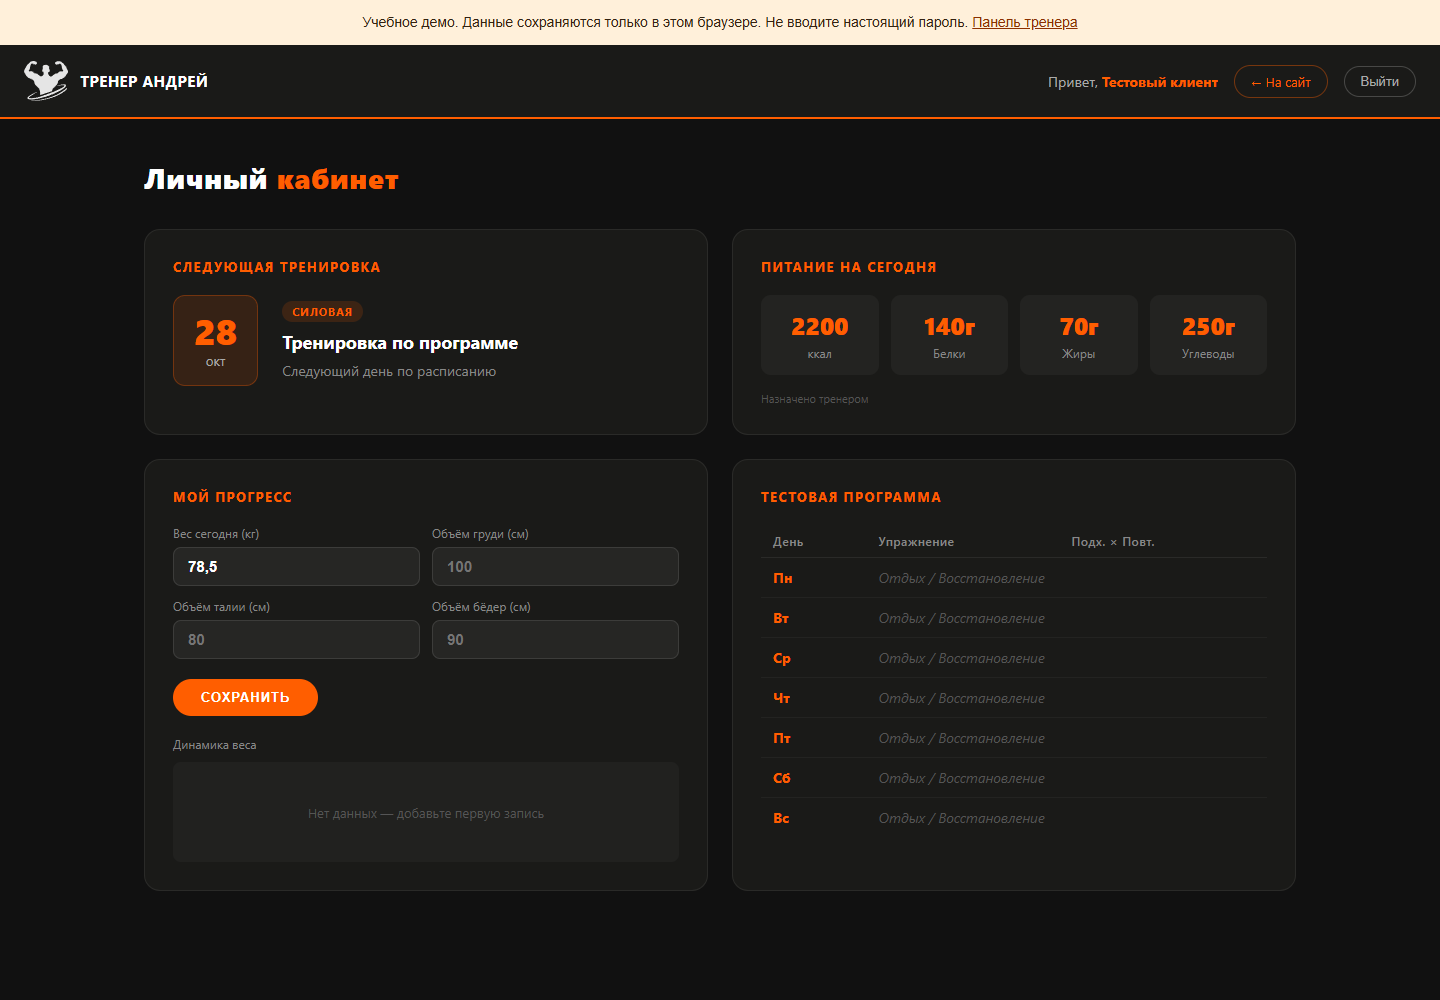
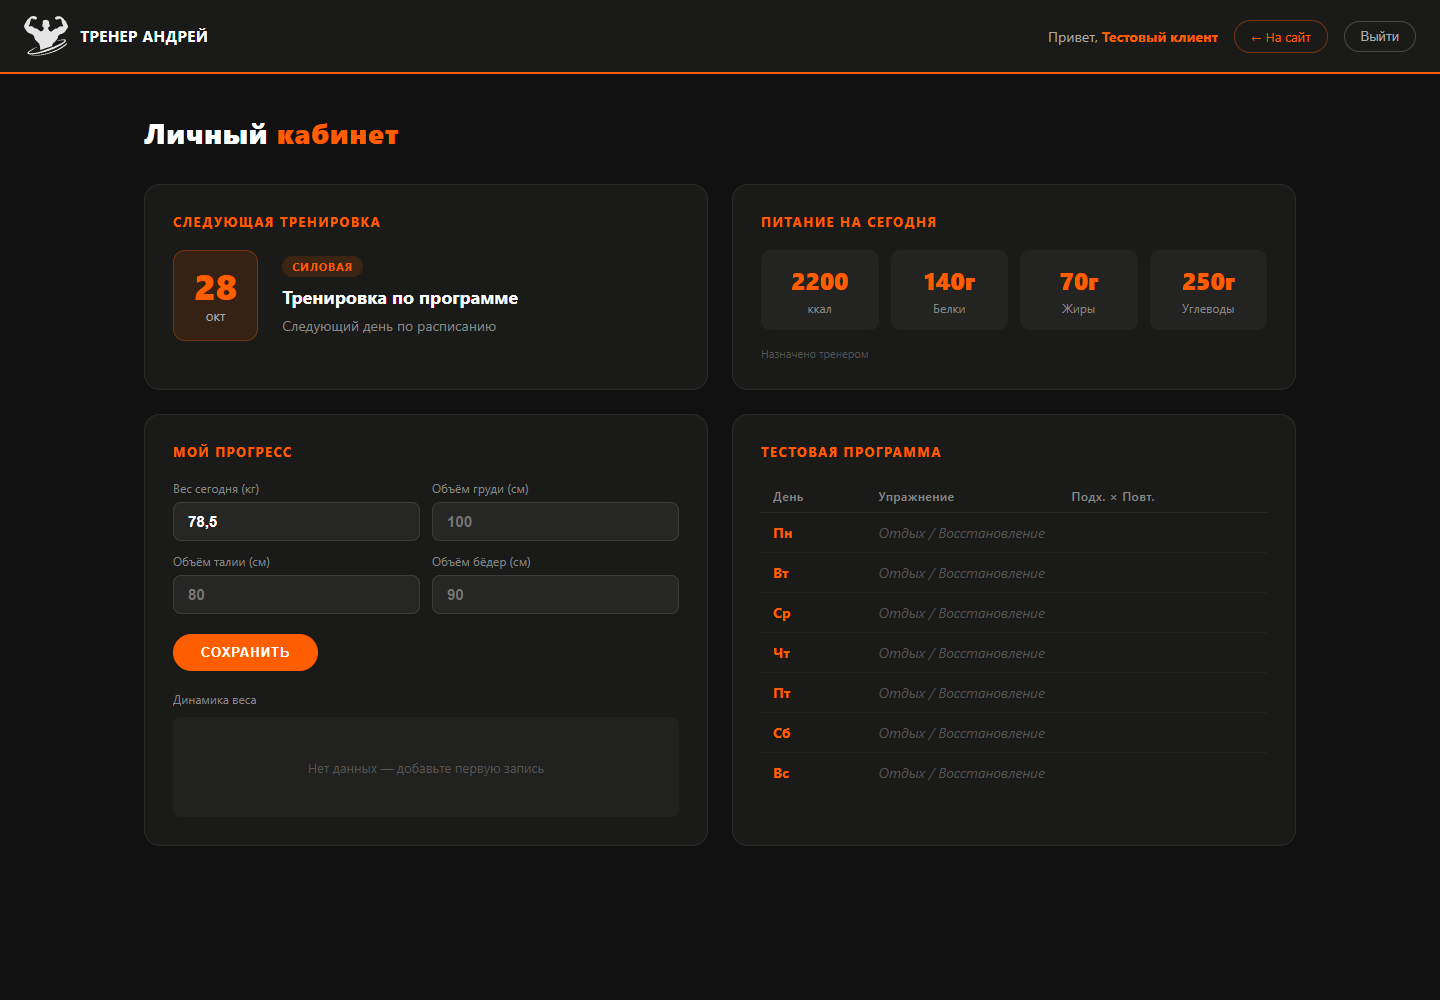
Simplify demo page layout

diff --git a/demo/login.html b/demo/login.html
@@ -5,8 +5,8 @@
   <meta name="viewport" content="width=device-width, initial-scale=1.0" />
   <title>Вход — Тренер Андрей Шарипкулов</title>
   <link rel="stylesheet" href="css/login.css">
-<meta name="robots" content="noindex"><link rel="stylesheet" href="css/demo.css"></head>
-<body><aside class="demo-notice">Учебное демо. Данные сохраняются только в этом браузере. Не вводите настоящий пароль. <a href="admin.html">Панель тренера</a></aside>
+<meta name="robots" content="noindex"></head>
+<body>
   <div class="auth-card">
     <div class="auth-logo">
       <img src="img/logo.svg" alt="Логотип" onerror="this.style.display='none'" />

diff --git a/demo/cabinet.html b/demo/cabinet.html
@@ -5,8 +5,8 @@
   <meta name="viewport" content="width=device-width, initial-scale=1.0" />
   <title>Личный кабинет — Тренер Андрей Шарипкулов</title>
   <link rel="stylesheet" href="css/cabinet.css">
-<meta name="robots" content="noindex"><link rel="stylesheet" href="css/demo.css"></head>
-<body><aside class="demo-notice">Учебное демо. Данные сохраняются только в этом браузере. Не вводите настоящий пароль. <a href="admin.html">Панель тренера</a></aside>
+<meta name="robots" content="noindex"></head>
+<body>
 
   <header class="cab-header">
     <a href="index.html" class="cab-header-logo">

diff --git a/demo/admin.html b/demo/admin.html
@@ -5,8 +5,8 @@
   <meta name="viewport" content="width=device-width, initial-scale=1.0" />
   <title>Панель администратора — Тренер Андрей</title>
   <link rel="stylesheet" href="css/admin.css">
-<meta name="robots" content="noindex"><link rel="stylesheet" href="css/demo.css"></head>
-<body><aside class="demo-notice">Учебное демо. Данные сохраняются только в этом браузере. Не вводите настоящий пароль. <a href="admin.html">Панель тренера</a></aside>
+<meta name="robots" content="noindex"></head>
+<body>
 
 
   <div class="login-screen" id="loginScreen">

diff --git a/demo/index.html b/demo/index.html
@@ -37,8 +37,8 @@
 
 
 
-  <meta name="robots" content="noindex"><link rel="stylesheet" href="css/demo.css"></head>
-  <body><aside class="demo-notice">Учебное демо. Данные сохраняются только в этом браузере. Не вводите настоящий пароль. <a href="admin.html">Панель тренера</a></aside>
+  <meta name="robots" content="noindex"></head>
+  <body>
 
     <div id="scrollProgress"></div>
 
